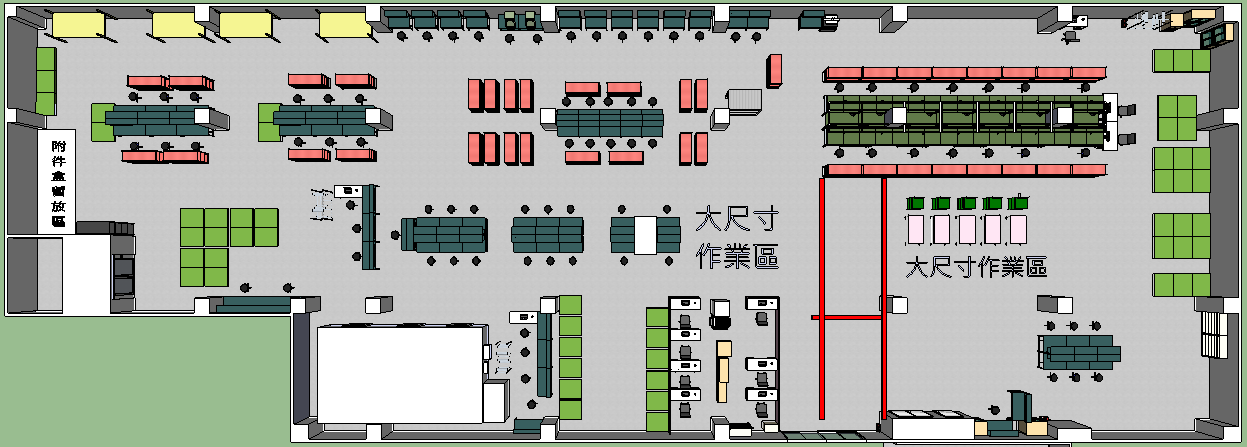
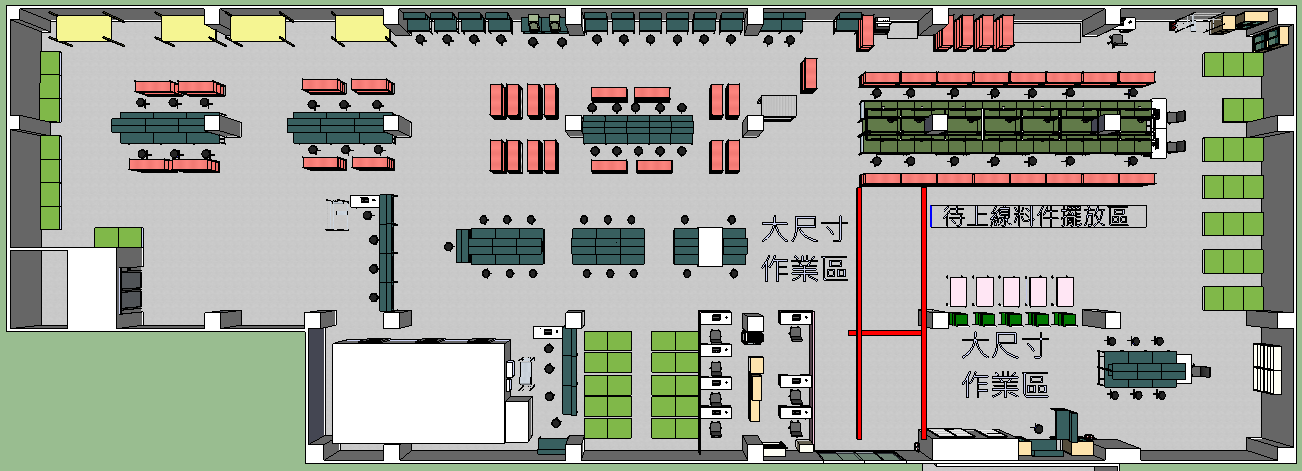
Update setting and project version

Changed region(s): [[0.0, 0.0, 1.0, 1.0]]

diff --git a/src/main/webapp/js/totalMap-setting/6f.js b/src/main/webapp/js/totalMap-setting/6f.js
@@ -37,11 +37,11 @@ var testGroup = [
 var babGroup = [
     {people: 5, x: 875, y: 265, lineName: "L1"},
     {people: 5, x: 875, y: 185, lineName: "L2"},
-    {people: 5, x: 875, y: 110, lineName: "L3"},
-    {people: 5, x: 875, y: 20, lineName: "L4"},
+    {people: 4, x: 900, y: 110, lineName: "L3"},
+    {people: 4, x: 900, y: 20, lineName: "L4"},
     {people: 3, x: 565, y: 245, lineName: "L6"},
     {people: 3, x: 235, y: 100, lineName: "L7"},
-    {people: 4, x: 480, y: 170, lineName: "L8"},
+    {people: 3, x: 510, y: 170, lineName: "L8"},
     {people: 3, x: 400, y: 245, lineName: "L9"}
 ];
 
